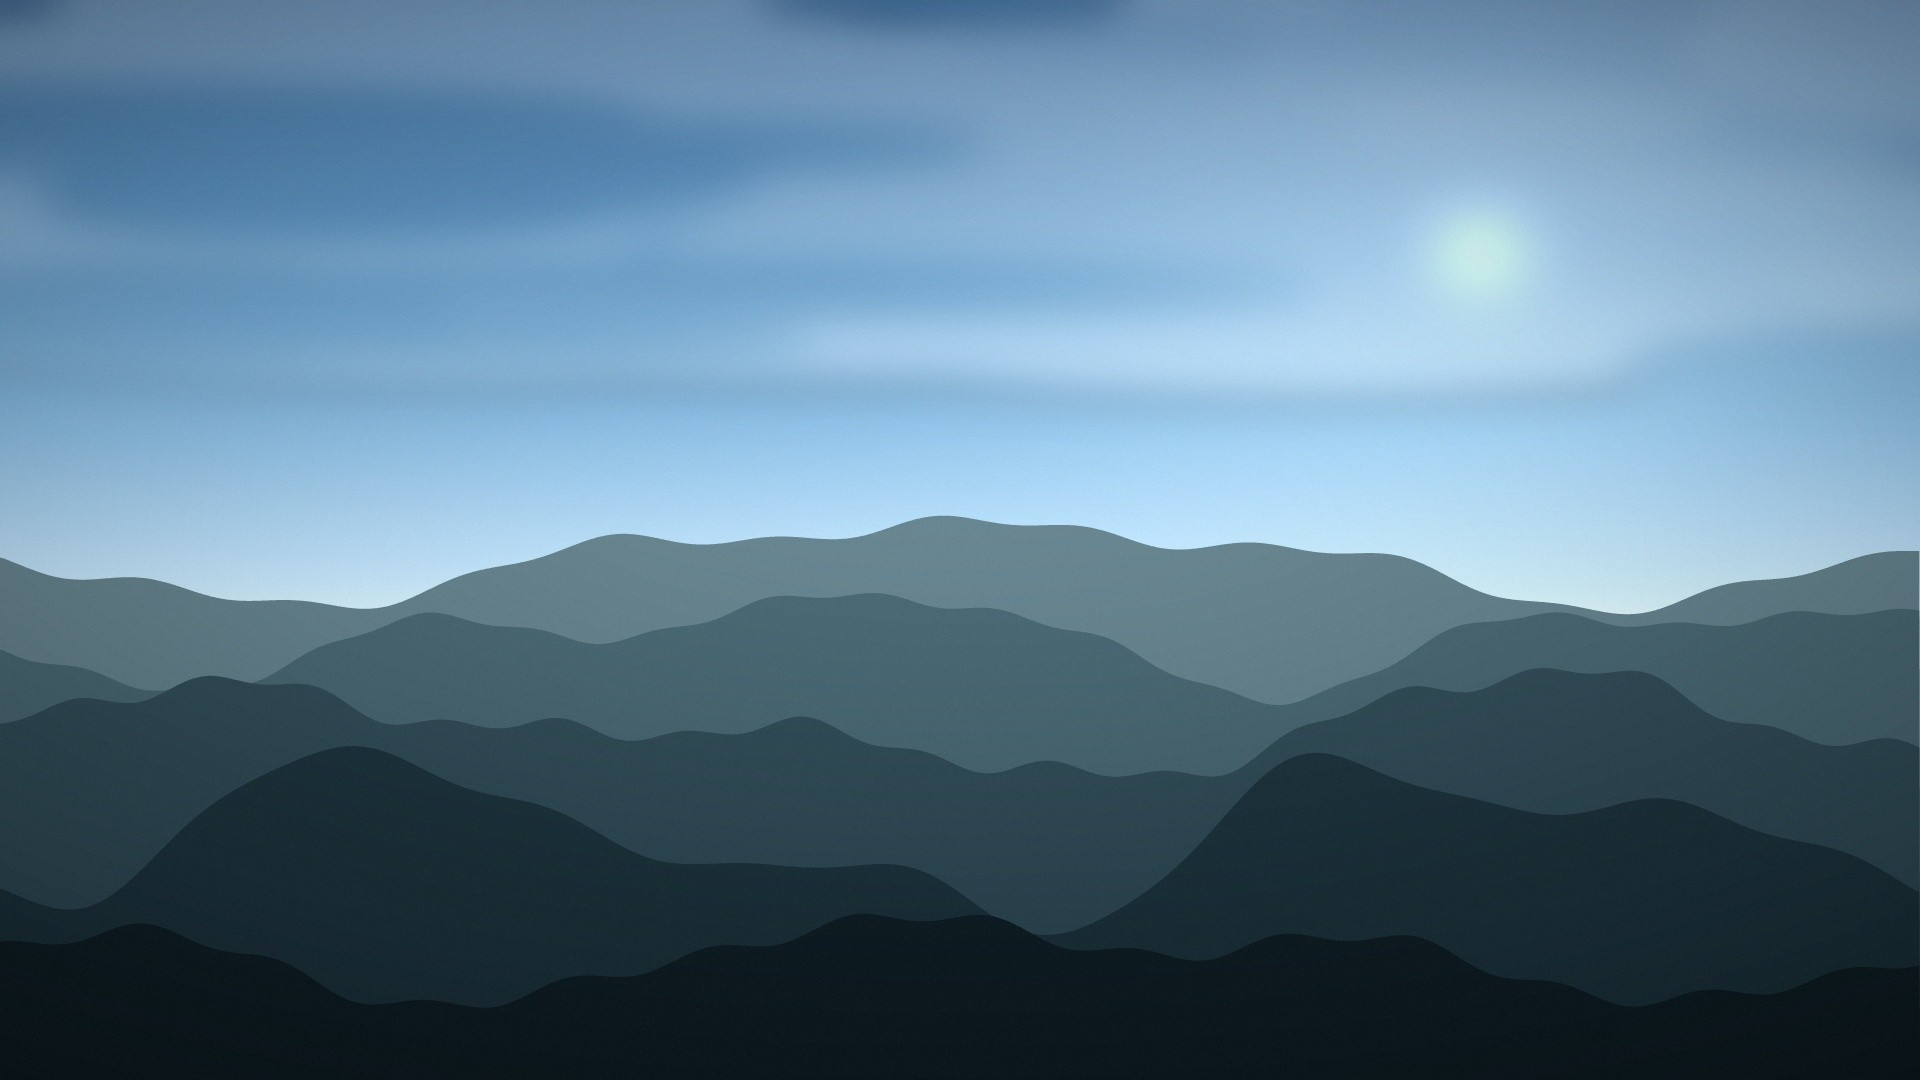
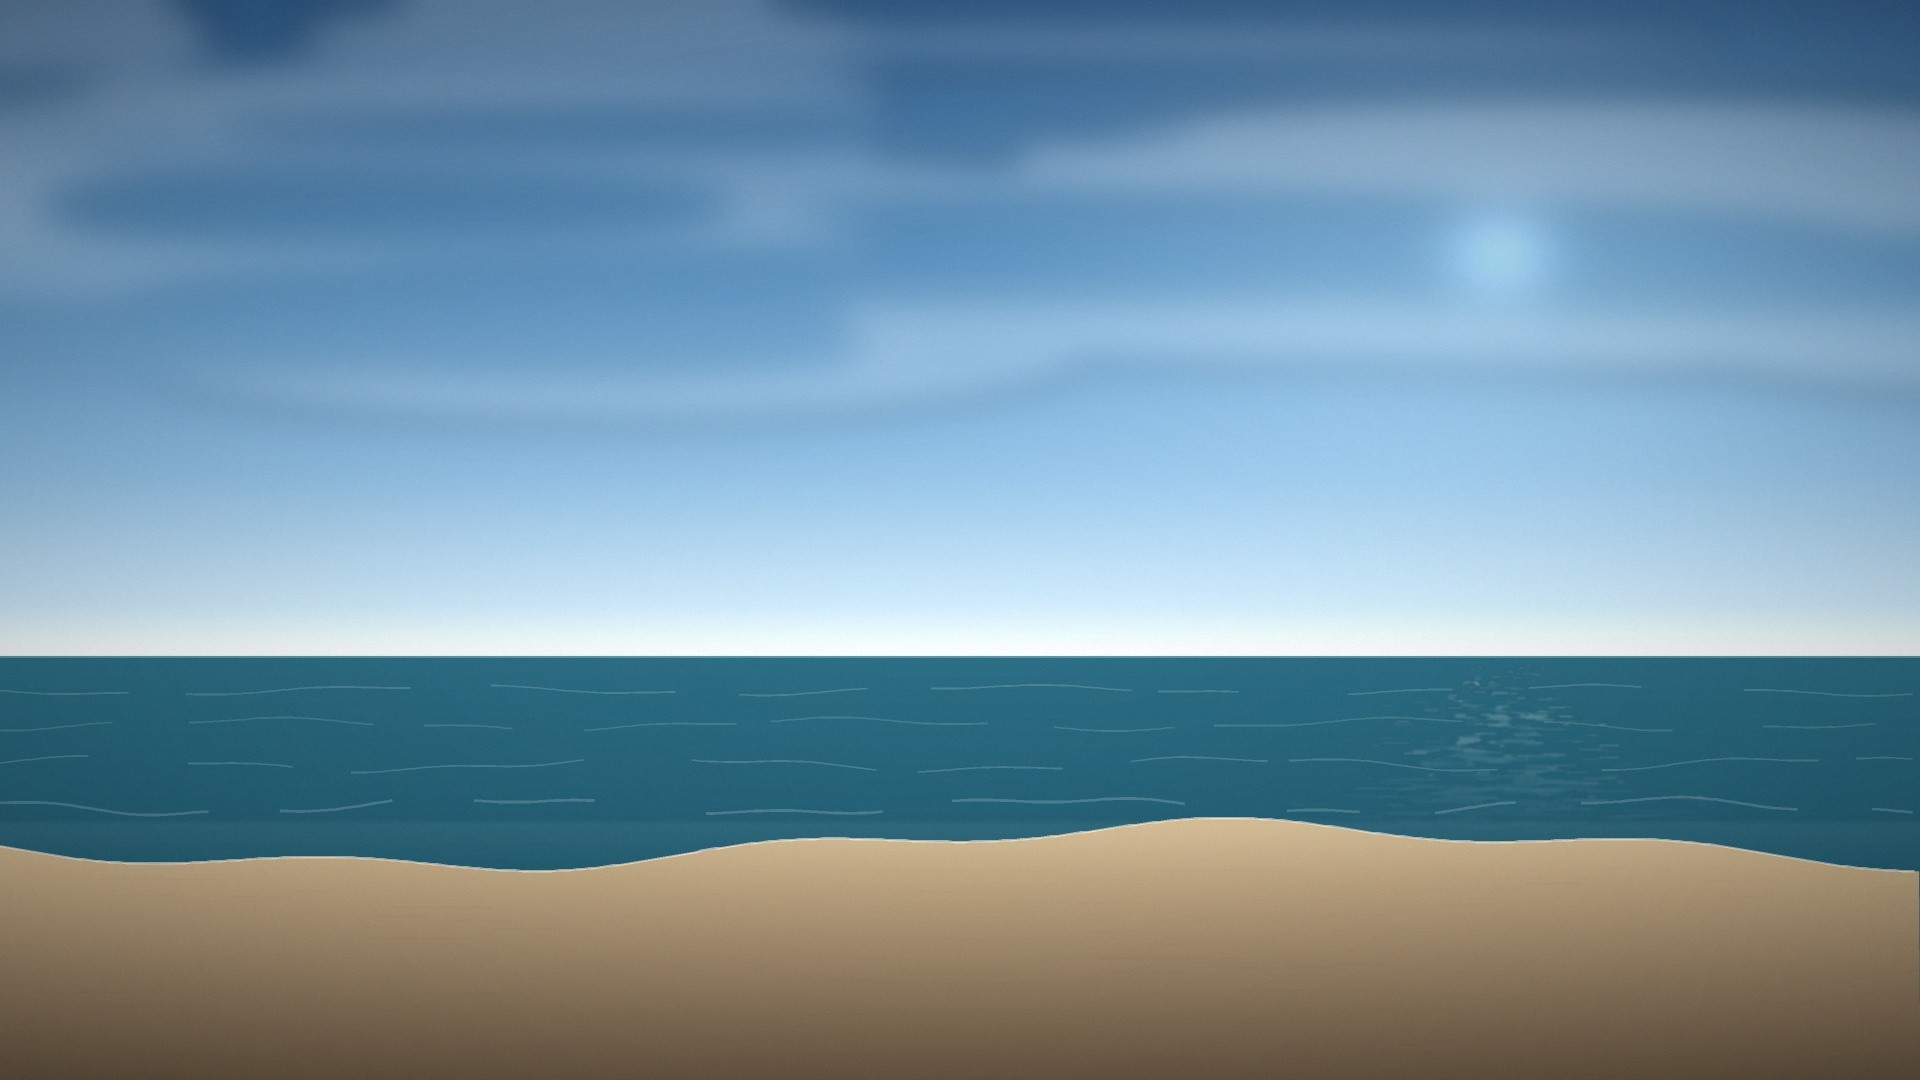
launcher: daylight beach with horizon under apps (1.8)

diff --git a/launcher/src/tv/dumbtv/home/Shade.java b/launcher/src/tv/dumbtv/home/Shade.java
@@ -51,8 +51,10 @@ final class Shade extends View {
 
         // bottom: the labels sit on this, and a mid stop stops a bright horizon from
         // cutting through them
-        paint.setShader(new LinearGradient(0, h * 0.34f, 0, h,
-                new int[] {0x00000000, 0x38000000, 0x80000000, 0xB3000000},
+        int[] bottom = bright
+                ? new int[] {0x00000000, 0x26000000, 0x5C000000, 0x8C000000}
+                : new int[] {0x00000000, 0x38000000, 0x80000000, 0xB3000000};
+        paint.setShader(new LinearGradient(0, h * 0.34f, 0, h, bottom,
                 new float[] {0f, 0.42f, 0.72f, 1f}, Shader.TileMode.CLAMP));
         canvas.drawRect(0, h * 0.34f, w, h, paint);
 

diff --git a/launcher/src/tv/dumbtv/home/Config.java b/launcher/src/tv/dumbtv/home/Config.java
@@ -76,7 +76,7 @@ final class Config {
     static final Choice BACKGROUND = new Choice("background", "Background", "auto",
             new String[] {"auto", "day", "aurora", "dunes", "coast", "black", "graphite", "midnight",
                     "image", "adaptive", "adaptive-tint"},
-            new String[] {"Auto by time", "Daylight", "Aurora", "Dunes at dusk",
+            new String[] {"Auto by time", "Daylight beach", "Aurora", "Dunes at dusk",
                     "Moonlit coast", "Black", "Graphite", "Midnight", "Image file",
                     "Adaptive solid", "Adaptive wallpaper tint"});
     static final Choice DIM = new Choice("dim", "Background dim", "0",

diff --git a/FORK.md b/FORK.md
@@ -21,7 +21,7 @@ Fire OS.
 - **A new look.** Full-bleed ambient scenes, a layered scrim, a 64 sp light clock,
   larger 16:9 cards, a softer multi-cue focus state, and a redesigned Options
   screen.
-- **Four built-in scenes.** Daylight, Aurora, Dunes at dusk and Moonlit
+- **Four built-in scenes.** Daylight beach, Aurora, Dunes at dusk and Moonlit
   coast are packed into the APK (1920×1080 WebP). `Auto` follows the clock:
   daylight 09:00–17:00, dunes 05:00–09:00 and 17:00–20:00, moonlit coast
   20:00–00:00, aurora 00:00–05:00. `Next background` steps through them. No
@@ -41,9 +41,9 @@ Fire OS.
 
 ![Options](docs/screenshots/options.png)
 
-| Daylight | Aurora | Dunes at dusk | Moonlit coast |
+| Daylight beach | Aurora | Dunes at dusk | Moonlit coast |
 |---|---|---|---|
-| ![Daylight](docs/screenshots/day.jpg) | ![Aurora](docs/screenshots/aurora.jpg) | ![Dunes at dusk](docs/screenshots/dunes.jpg) | ![Moonlit coast](docs/screenshots/coast.jpg) |
+| ![Daylight beach](docs/screenshots/day.jpg) | ![Aurora](docs/screenshots/aurora.jpg) | ![Dunes at dusk](docs/screenshots/dunes.jpg) | ![Moonlit coast](docs/screenshots/coast.jpg) |
 
 The screenshots show the real app row of the test TV; they contain no server
 addresses, account details, IPs or setup tokens.
@@ -59,7 +59,7 @@ addresses, account details, IPs or setup tokens.
 
 ## Install
 
-The download URL points at this fork. Until `launcher-v1.7` is published here,
+The download URL points at this fork. Until `launcher-v1.8` is published here,
 build and install from source:
 
 ```sh
@@ -82,4 +82,4 @@ build-tools. No Gradle.
 - Not affiliated with or endorsed by upstream.
 - License: MIT (see [LICENSE](LICENSE)); the four scenes are original artwork
   generated for this fork.
-- Version: 1.7. See `launcher/version.env`; changes are in [CHANGELOG.md](CHANGELOG.md).
+- Version: 1.8. See `launcher/version.env`; changes are in [CHANGELOG.md](CHANGELOG.md).

diff --git a/launcher/README.md b/launcher/README.md
@@ -6,7 +6,7 @@ A home screen for Fire TV that does one job: show your apps and your HDMI inputs
   <img src="../docs/assets/screens/home.png" alt="dumbtv home: a clock, an Apps row and an Inputs row" width="720">
 </p>
 
-- **About 620 KB including four scenes.** Plain Java and Android views. No
+- **About 640 KB including four scenes.** Plain Java and Android views. No
   AndroidX, Kotlin, Compose, Play Services or any other library.
 - **No network.** There is no `INTERNET` permission, so Android will not let it
   open a connection.
@@ -23,7 +23,7 @@ A home screen for Fire TV that does one job: show your apps and your HDMI inputs
 This fork tracks upstream launcher 1.2 — grid layout, the built-in HDMI input
 screen, adaptive backgrounds and the upstream Fire OS 8 HOME fix — and adds:
 
-- **Four built-in scenes:** Daylight, Aurora, Dunes at dusk and Moonlit
+- **Four built-in scenes:** Daylight beach, Aurora, Dunes at dusk and Moonlit
   coast, packed into the APK at 1920×1080. `Auto` follows the clock: daylight
   09:00–17:00, dunes 05:00–09:00 and 17:00–20:00, moonlit coast 20:00–00:00,
   aurora 00:00–05:00. `Next background` steps through them. No download or storage
@@ -80,7 +80,7 @@ Undo: `./launcher/install.sh --undo` gives HOME back to Amazon's launcher.
 | Clock | system, 24-hour, 12-hour |
 | Inputs row | shown, hidden |
 | Open inputs with | Automatic, the TV's app, dumbtv home (see below) |
-| Background | auto, daylight, aurora, dunes, coast, black, graphite, midnight, image, adaptive, adaptive tint |
+| Background | auto, daylight beach, aurora, dunes, coast, black, graphite, midnight, image, adaptive, adaptive tint |
 | Background dim, wallpaper rotation | for scenes and images |
 
 Below them: Next background, which apps and inputs appear on the home screen, a

diff --git a/CHANGELOG.md b/CHANGELOG.md
@@ -3,6 +3,18 @@
 Changes in this fork relative to upstream dumbtv home. Upstream baseline:
 [dumbtv home 1.1](https://github.com/humblemuzzu/dumbtv).
 
+## 1.8 — 2026-10-23
+
+**Daylight beach, on the same horizon as the other scenes.**
+
+- Replaced the daylight mountain landscape with a beach whose horizon sits at the
+  same level (about 61% down) as the coast and dunes scenes, so it underlines the
+  app row instead of running into it.
+- Warm sand, a crisp surf edge, broken foam lines, blue sky and cloud. The day-only
+  bottom scrim is lighter so the sand stays visible.
+- Renamed the scene from Daylight to Daylight beach. The auto hours are unchanged.
+- APK: 635,774 bytes.
+
 ## 1.7 — 2026-10-23
 
 **Sharper, brighter daylight.**

diff --git a/README.md b/README.md
@@ -72,7 +72,7 @@ no root:
   stops Amazon's telemetry and automatic updates from reaching their servers.
   Everything else, including your streaming apps, works as before.
 - **Replaces the home screen** with [dumbtv home](launcher/README.md): your apps,
-  your inputs and a clock. About 620 KB including four scenes, open source, no internet access, no permissions.
+  your inputs and a clock. About 640 KB including four scenes, open source, no internet access, no permissions.
 - **Leaves your apps alone.** Nothing you watch is removed unless you name it.
 - **Can all be undone** with one command.
 

diff --git a/docs/FAQ.md b/docs/FAQ.md
@@ -106,7 +106,7 @@ the rest of the cleanup: the packages, the settings and the home screen.
 
 **Why its own launcher?**
 A home screen needs no internet access, no advertising ID and no permission to
-install apps. dumbtv home is about 620 KB including four scenes, open source and asks for no permissions on
+install apps. dumbtv home is about 640 KB including four scenes, open source and asks for no permissions on
 Fire OS 7 and 8. Check it yourself: `aapt2 dump permissions dumbtv-home.apk`
 lists three, each limited to Android 8.1 and earlier, which only Fire OS 6's Keeper
 uses.
